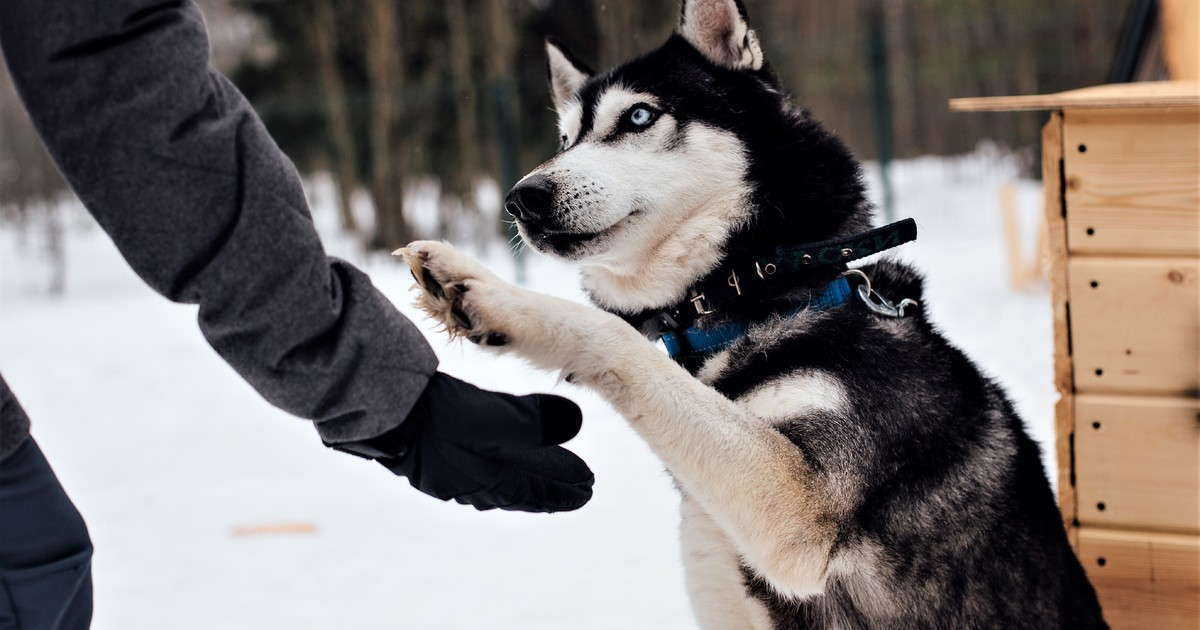
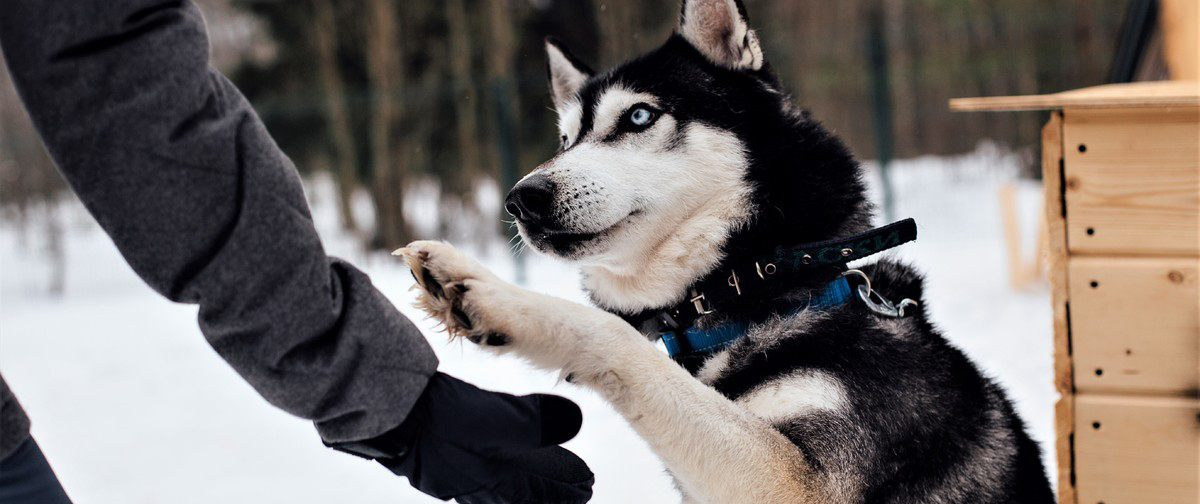
courasel ve resimler daha responsive

diff --git a/style.css b/style.css
@@ -3,11 +3,12 @@
 
 body {
     background-color: whitesmoke;
-    height: 100vh;
-    width: 100vw;
+    padding-top: 3rem;
+    padding-bottom: 3rem;
 }
-.container{
-    margin-top: 5rem;
+
+.container {
+    margin-top: 5rem auto;
 }
 
 .sizing {
@@ -46,23 +47,17 @@ body {
     z-index: 10;
 }
 
+
+
 /* Declare heights because of positioning of img element */
 
-.carousel-item {
-    height: 32rem;
-}
-
 .carousel-item>img {
-    position: absolute;
-    top: 0;
-    left: 0;
-    min-width: 100%;
-    height: auto;
-    min-height: 32rem;
+    width: 100%;
+    height: 100%;
 }
 
 .carousel p {
-    color: red;
+    color: #de5d83;
     font-weight: bold;
 }
 
@@ -155,6 +150,10 @@ body {
     p.float-right a {
         margin-left: 4rem;
     }
+    .carousel-caption{
+        display: none;
+    }
+    
 }
 
 @media(min-width: 992px) {
